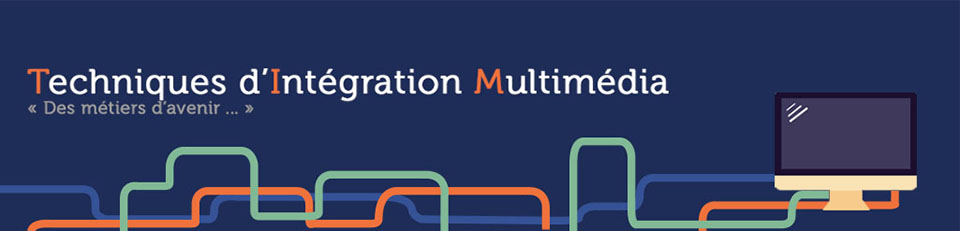
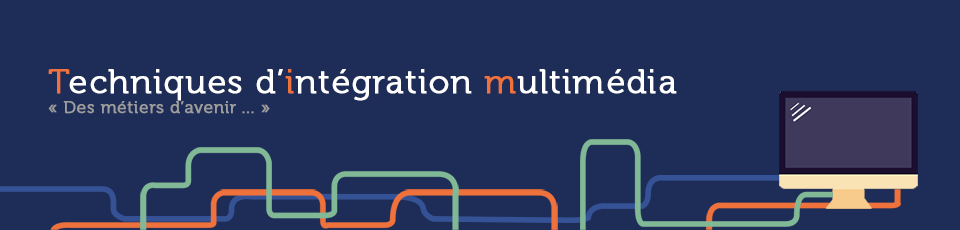
Bonne image de slider
Image de slider corrigée avec la bonne orthographe (Claudine Techniques
d’intégration multimédia) sans majuscule sauf pour le T.

Changed region(s): [[0.0, 0.3957, 0.9688, 1.0], [0.0312, 0.2739, 0.7188, 0.5174]]

diff --git a/timcestquoi.php b/timcestquoi.php
@@ -29,7 +29,7 @@
 <div class="wrapper row2">
   <div id="container">
     <!-- Silder -->
-    <section id="slider"><a href="#"><img src="images/slider.jpg" alt="Slider1"></a></section>
+    <section id="slider"><a href="#"><img src="images/slider.jpg" alt="Slider1" width="960" height="auto"></a></section>
     <!-- main content -->
     <div id="homepage">
      <!-- #Index Image -->
